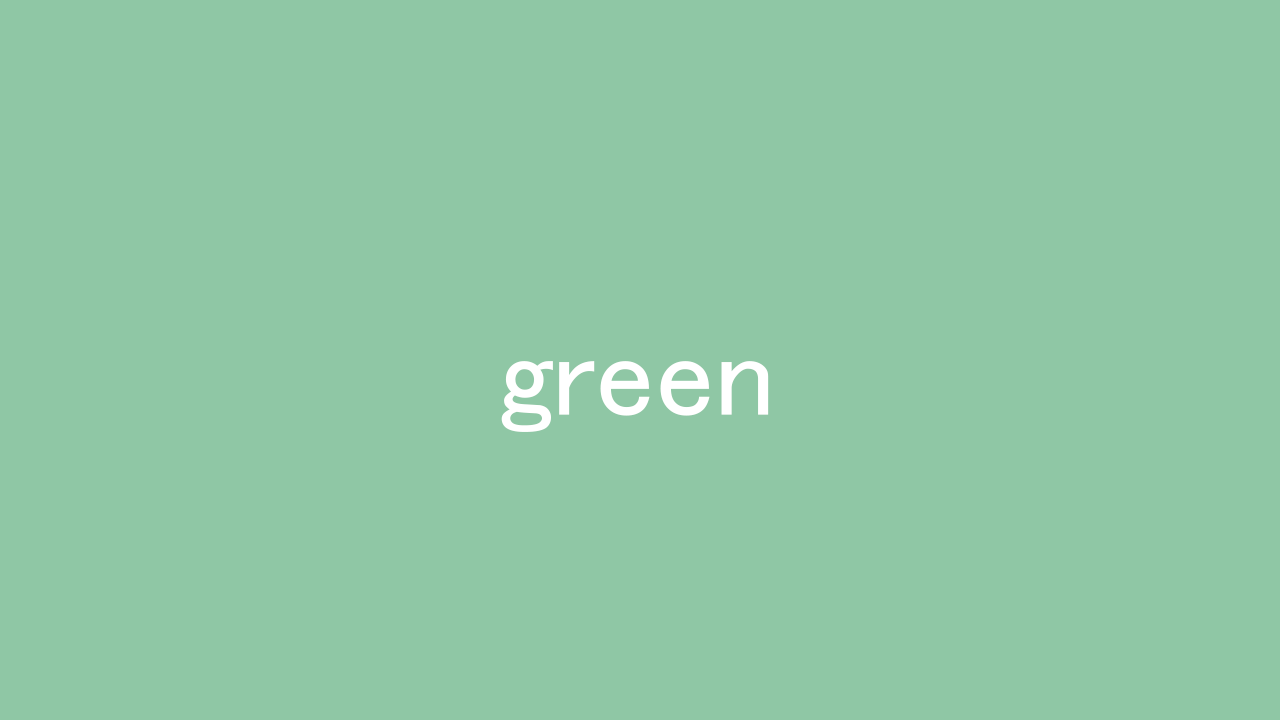
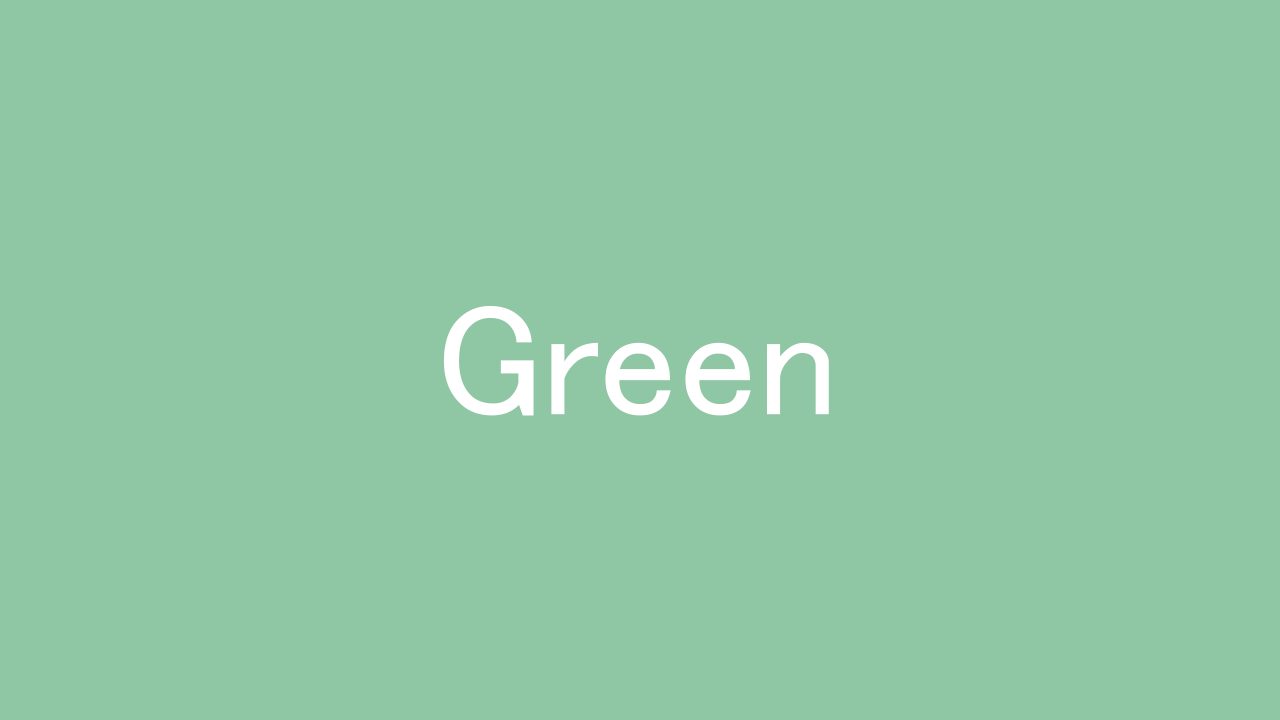
スライダー作成中

Changed region(s): [[0.3438, 0.4278, 0.6562, 0.6111]]

diff --git a/src/index.html b/src/index.html
@@ -1,6 +1,7 @@
 <!DOCTYPE html>
 <html lang="ja">
 <head>
+
   <meta charset="utf-8">
   <meta name="viewport" content="width=device-width, initial-scale=1.0">
   
@@ -28,21 +29,30 @@
 
   <!-- リセットCSS -->
   <link rel="stylesheet" href="assets/css/destyle.min.css">
-  <!-- CSS -->
-  <link rel="stylesheet" href="/scss/style.scss">
-  
-  <!-- JavaScript -->
-  <script src="/js/main.js" type="module"></script>
 
   <!-- Google Fonts -->
   <link rel="preconnect" href="https://fonts.googleapis.com">
   <link rel="preconnect" href="https://fonts.gstatic.com" crossorigin>
   <link href="https://fonts.googleapis.com/css2?family=Noto+Sans+JP:wght@100;200;300;400;500;600;700;800;900&display=swap" rel="stylesheet">
+
   <!-- Font Awesome -->
   <script src="https://kit.fontawesome.com/22eeb3d0d6.js" crossorigin="anonymous"></script>
 
+  <!-- Swiper -->
+  <!--link href="https://cdn.jsdelivr.net/npm/swiper@11.0.5/swiper-bundle.min.css" rel="stylesheet"-->
+  <!--script src="https://cdn.jsdelivr.net/npm/swiper@11.0.5/swiper-bundle.min.js"></script--> 
+  <link rel="stylesheet" href="https://unpkg.com/swiper@8/swiper-bundle.min.css" />
+  <script src="https://unpkg.com/swiper@8/swiper-bundle.min.js"></script> 
+  
   <!-- 検索エンジンにインデックスさせない -->
   <meta name="robots" content="noindex">
+
+  <!-- CSS -->
+  <link rel="stylesheet" href="/scss/style.scss">
+
+  <!-- JavaScript -->
+  <script src="/js/main.js" type="module"></script>
+
 </head>
 
 <body class="top">
@@ -238,6 +248,34 @@
   </header><!-- /.header -->
 
   <div class="wrapper">
+
+    <!-- Swiper -->
+    <div class="swiper slideshow">
+      <div class="swiper-wrapper slideshow__wrapper">
+        <div class="swiper-slide slideshow__item">
+          <img src="assets/img/image_blue.png" class="slideshow__img" alt="blue" width="1280" height="720">
+        </div>
+        <div class="swiper-slide slideshow__item">
+          <img src="assets/img/image_green.png" class="slideshow__img" alt="green" width="1280" height="720">
+        </div>
+        <div class="swiper-slide slideshow__item">
+          <img src="assets/img/image_yellow.png" class="slideshow__img" alt="yellow" width="1280" height="720">
+        </div>
+        <div class="swiper-slide slideshow__item">
+          <img src="assets/img/image_red.png" class="slideshow__img" alt="red" width="1280" height="720">
+        </div>
+        <div class="swiper-slide slideshow__item">
+          <img src="assets/img/image_purple.png" class="slideshow__img" alt="purple" width="1280" height="720">
+        </div>
+      </div>
+      <div class="swiper-pagination"></div>
+      <div class="slideshow__button-prev">
+        <i class="slideshow__icon fa-solid fa-angle-left"></i>
+      </div>
+      <div class="slideshow__button-next">
+        <i class="slideshow__icon fa-solid fa-angle-right"></i>
+      </div>
+    </div>
 
     <div class="page-visual">
       <div class="page-visual__inner">

diff --git a/src/scss/module/_slideshow.scss b/src/scss/module/_slideshow.scss
@@ -5,6 +5,53 @@
 *********************************/
 
 .slideshow{
+    width: 100%;
+    height: calc(100vh - g.$header-height_pc);
+}
+
+.slideshow__wrapper{
+    position: absolute;
+    top: 0;
+    left: 0;
+    display: flex;
+    width: 400%;
+    transition: 0.5s;
+}
+
+.slideshow__item{
+    max-width: g.$content_width;
+}
+
+.slideshow__img{
+    object-fit: cover;
+    height: 100%;
+}
+
+.slideshow__button-prev,.slideshow__button-next{
+    position: absolute;
+    display: flex;
+    justify-content: center;
+    align-items: center;
+    top: 0;
+    width: 60px;
+    height: 100%;
+    z-index: 10;
+
+    &:hover,&:active,&:focus{
+        background-color: #ffffff1A;
+    }
+}
+
+.slideshow__button-prev{
+    left: calc((100% - g.$content_width) / 2);
+}
+
+.slideshow__button-next{
+    right: calc((100% - g.$content_width) / 2);
+}
+
+/*
+.slideshow{
     position: relative;
     width: min(500px, 100%);
     aspect-ratio: 4/3;
@@ -122,3 +169,4 @@
         }
     }
 }
+*/

diff --git a/src/js/module/plugin.js b/src/js/module/plugin.js
@@ -1,0 +1,27 @@
+/*********************************
+    プラグイン
+*********************************/
+
+export function plugin() {
+    
+  /* Swiper */
+  const mySwiper = new Swiper('.swiper', {
+
+    loop: true, // ループ
+    slidesPerView: 'auto', // 一度に表示する枚数
+    centeredSlides: true, // アクティブなスライドを中央にする
+    autoplay: { // 自動再生
+        delay: 3000, // 1秒後に次のスライド
+        disableOnInteraction: false, // 矢印をクリックしても自動再生を止めない
+    },
+    pagination: { // ページネーション
+      el: '.swiper-pagination',
+    },
+    navigation: { // 前後の矢印
+      nextEl: '.slideshow__button-next',
+      prevEl: '.slideshow__button-prev',
+    },
+    
+  });
+
+}

diff --git a/src/js/main.js b/src/js/main.js
@@ -33,5 +33,5 @@ import { dropdown } from "./module/dropdown";
 dropdown();
 
 //スライドショー
-import { slideshow } from "./module/slideshow";
-slideshow();
+import { plugin } from "./module/plugin";
+plugin();

diff --git a/src/scss/module/_index.scss b/src/scss/module/_index.scss
@@ -77,4 +77,4 @@
 //@forward 'loading';
 
 // スライドショー
-//@forward 'slideshow';
+@forward 'slideshow';
